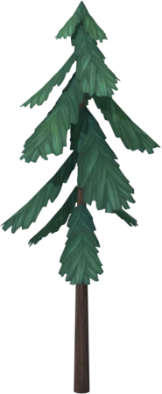
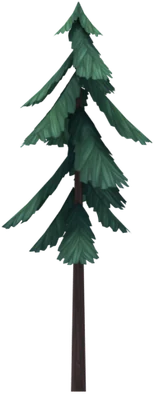
art: lit treeline, row depth grades (TB-260)
Tree sprites re-rendered in Cycles under the actors' sun (render_trees.py,
pack_trees.py); rows 1-3+ behind the nearest draw _d1.._d3 grades mixed
toward woodDeep, replacing the _far copies. TREELINE.depth, treeline grade().

Changed region(s): [[0.0, 0.0, 0.987, 1.0], [0.4935, 0.335, 0.5455, 0.3655]]

diff --git a/src/data/presentation.ts b/src/data/presentation.ts
@@ -30,7 +30,7 @@ export const DEPTH = { top: 176, far: 0.62, near: 1, squeeze: 0.3, hazeSky: 0.16
 /** Treeline along the top of the view (TB-207, TB-220): sprites from the Sketchfab Handpainted Tree Pack (rudolfs, CC-BY), rendered
  *  in tide-assets/trees (512 px renders, shipped at 44 px per model unit so a tree is never drawn past its native pixels at 1080p DPR 2).
  *  Rows of trees stacked from the view top down to `stop` (units above the plain's top edge, at least `minRows` rows): each row nearer
- *  than the last, so taller, brighter and wider spaced. The back rows use the darker `_far` sprites. Every tree is drawn at its real
+ *  than the last, so taller, brighter and wider spaced. Rows behind the nearest use the depth-graded sprites `_d1`.. (TB-260). Every tree is drawn at its real
  *  model height (`kinds`, in model units) times `unit`, always with one uniform scale so nothing squashes or warps. */
 export const TREELINE = {
   seed: 207, span: [-700, 1600] as const,
@@ -39,6 +39,9 @@ export const TREELINE = {
     young: 0.3, kinds: ['oak_green_1', 'oak_green_2', 'spruce_2', 'spruce_3'] as const, youngH: [24, 38] as const },
   /** Pre-scaled sprite levels stop below `mipMin` px high; the soft ground shadow is `shadowPx` wide and `shade` x the sprite width under a tree and a bush. */
   mipMin: 24, shadowPx: 64, shade: { tree: 0.45, bush: 0.85 },
+  /** Depth grades (TB-260): the sprites are lit in Cycles like the actors; a row 1, 2, 3+ behind the nearest draws `tree_<kind>_d1..d<depth>`
+   *  (pack_trees.py: colour mixed 0.22 / 0.36 / 0.48 toward `woodDeep`). A `far` skirt bush draws grade 1. */
+  depth: 3,
   /** Device-exact sprite cache: most entries kept before it is rebuilt. The first `fill.rows` rows (the canopy against the view top) hold only kinds at least `fill.min` x the tallest that fits. */
   exactCap: 700, fill: { rows: 3, min: 0.9 },
   /** World units per model unit, and the random size spread (x unit) of one tree. */

diff --git a/src/render/treeline.ts b/src/render/treeline.ts
@@ -82,10 +82,14 @@ function buildMips(im: HTMLImageElement): HTMLCanvasElement[] {
   return out;
 }
 
+/** Sprite suffix for a tree `back` rows behind the nearest: '' for the nearest, then `_d1`.. capped at `TREELINE.depth` (TB-260). */
+export const grade = (back: number): string => (back <= 0 ? '' : `_d${Math.min(back, T.depth)}`);
+
 function load(): void {
   if (started || typeof Image === 'undefined') return;
   started = true;
-  for (const k of [...T.kinds, BUSH]) for (const v of [k, `${k}_far`]) {
+  for (const k of [...T.kinds, BUSH]) for (let d = 0; d <= T.depth; d++) {
+    const v = k + grade(d);
     const im = new Image(); im.onload = (): void => { imgs.set(v, im); mips.set(v, buildMips(im)); }; im.src = `${import.meta.env.BASE_URL}decor/tree_${v}.webp`;
   }
 }
@@ -158,13 +162,13 @@ export class Treeline {
         if (r === 0 && t.key !== BUSH) h = Math.min(h * T.stretch, Math.max(h * 0.95, off - crown));
         // the open sky under the HUD (TB-232): a crown that would reach into it is drawn shorter, one uniform scale, at most down to `shrink`
         if (off - h < crown) h = Math.max(h * SKY.shrink, off - crown);
-        this.spots.push({ x: t.x, off, key: r < n - 1 ? `${t.key}_far` : t.key, h, flip: t.flip, shadow: T.shade.tree });
+        this.spots.push({ x: t.x, off, key: t.key + grade(n - 1 - r), h, flip: t.flip, shadow: T.shade.tree });
       }
     }
     const sb = T.first + (n - 1) * T.gap + T.skirt.lift;
     this.skirt.forEach((tr, i) => {
       const base = sb - T.skirt.offset * (T.skirt.rows - 1 - i);
-      for (const t of tr) this.edges.push({ x: t.x, off: base + t.dy, key: t.far ? `${t.key}_far` : t.key, h: t.h, flip: t.flip, shadow: T.shade.bush });
+      for (const t of tr) this.edges.push({ x: t.x, off: base + t.dy, key: t.key + grade(t.far ? 1 : 0), h: t.h, flip: t.flip, shadow: T.shade.bush });
     });
     this.spots.sort((a, b) => a.off - b.off); this.edges.sort((a, b) => a.off - b.off);
   }

diff --git a/src/render/treeline.test.ts b/src/render/treeline.test.ts
@@ -5,7 +5,7 @@ class FakeImage {
   set src(_v: string) { queueMicrotask(() => this.onload?.()); }
 }
 vi.stubGlobal('Image', FakeImage);
-const { Treeline, treeHeight, rowScale, rowKinds, rowRoom, fitSize } = await import('./treeline');
+const { Treeline, treeHeight, rowScale, rowKinds, rowRoom, fitSize, grade } = await import('./treeline');
 const { TREELINE } = await import('../data/presentation');
 
 function mockCtx() {
@@ -20,6 +20,12 @@ function mockCtx() {
 }
 
 describe('treeline', () => {
+  it('grades rows by distance behind the nearest, capped at the deepest grade (TB-260)', () => {
+    expect(grade(0)).toBe('');
+    expect(grade(1)).toBe('_d1');
+    expect(grade(TREELINE.depth + 4)).toBe(`_d${TREELINE.depth}`);
+  });
+
   it('does not throw on a zero-size / NaN view, so the frame loop survives', () => {
     const t = new Treeline(), { g } = mockCtx();
     expect(() => t.draw(g, NaN, NaN, NaN)).not.toThrow();

diff --git a/.claude/skills/mixamo-animate/scripts/trees/render_trees.py b/.claude/skills/mixamo-animate/scripts/trees/render_trees.py
@@ -1,0 +1,39 @@
+# TB-260: the treeline sprites lit like the actors. Renders each Handpainted Tree Pack kind (sketchfab/trees/scene.gltf, rudolfs,
+# CC-BY-4.0) alone, front orthographic (no tilt: TREELINE.heights x unit is the model height), in Cycles under lit_render's sun
+# (camera-space SUN, SUNE, AMB as the actors) with NOGROUND (treeline.ts draws each tree's own soft ground shadow).
+# Usage: blender -b --factory-startup --python render_trees.py -- <scene.gltf> <outdir> [kinds,comma,separated]
+# env: RES (512), SUNA (key sun angle rad, 0.14), SKYC (fill colour, 0.8,0.88,1), YAW (camera yaw deg around the tree, 0 = looking +Y), BUSHTILT (deg the camera looks down on the bush, 7), plus lit_render's.
+# Writes <outdir>/<kind>.png (RES x RES, transparent). pack_trees.py crops and scales them into public/decor.
+import bpy, sys, os, math
+from mathutils import Vector
+sys.path.insert(0, os.path.join(os.path.dirname(os.path.abspath(__file__)), '..'))
+os.environ.setdefault('LIT', '1'); os.environ.setdefault('NOGROUND', '1')
+import lit_render
+E = os.environ.get
+a = sys.argv[sys.argv.index('--') + 1:]
+src, out = a[0], a[1]; os.makedirs(out, exist_ok=True)
+KINDS = a[2].split(',') if len(a) > 2 else ['oak_green_1', 'oak_green_2', 'pine_1', 'pine_2', 'pine_3', 'spruce_2', 'spruce_3', 'bush']
+RES = int(E('RES', '512'))
+bpy.ops.wm.read_factory_settings(use_empty=True)
+bpy.ops.import_scene.gltf(filepath=src)
+sc = bpy.context.scene
+meshes = {o.name: o for o in sc.objects if o.type == 'MESH'}
+cam = bpy.data.objects.new('cam', bpy.data.cameras.new('cam')); sc.collection.objects.link(cam); sc.camera = cam; cam.data.type = 'ORTHO'
+sc.render.resolution_x = sc.render.resolution_y = RES; sc.render.resolution_percentage = 100
+sc.view_settings.view_transform = 'Standard'; sc.render.image_settings.file_format = 'PNG'; sc.render.image_settings.color_mode = 'RGBA'
+for k in KINDS:
+    obj = meshes.get(f'{k}_' + next((m.name for m in meshes[next(n for n in meshes if n.startswith(k + '_'))].data.materials), '') + '_0') or next(o for n, o in meshes.items() if n.startswith(k + '_'))
+    for o in meshes.values(): o.hide_render = o is not obj
+    bb = [obj.matrix_world @ Vector(c) for c in obj.bound_box]
+    lo = Vector([min(v[i] for v in bb) for i in range(3)]); hi = Vector([max(v[i] for v in bb) for i in range(3)]); c = (lo + hi) / 2; sz = hi - lo
+    tilt = math.radians(float(E('BUSHTILT', '7'))) if k == 'bush' else 0.0; yaw = math.radians(float(E('YAW', '0')))
+    d = Vector((math.sin(yaw) * math.cos(tilt), math.cos(yaw) * math.cos(tilt), -math.sin(tilt)))  # view direction
+    cam.location = c - d * 50; cam.rotation_euler = d.to_track_quat('-Z', 'Y').to_euler(); cam.data.clip_end = 200
+    cam.data.ortho_scale = max(sz.x, sz.y, sz.z) * 1.08
+    lit_render.setup(sc, cam)  # (re)aims the key sun in this camera's space
+    # a factory world is near-black (0.05), so AMB alone barely lifts a crown's self-shadow: give the fill a sky colour (SKYC)
+    bg = next(n for n in sc.world.node_tree.nodes if n.type == 'BACKGROUND'); bg.inputs[0].default_value = [float(x) for x in E('SKYC', '0.8,0.88,1').split(',')] + [1]
+    for o in sc.objects:  # SUNA: a wider sun softens the stacked leaf layers' shadow bands (lit_render's 0.14 rad striped the bush)
+        if o.type == 'LIGHT' and o.data.type == 'SUN' and o.data.use_shadow: o.data.angle = float(E('SUNA', '0.14'))
+    sc.render.filepath = os.path.join(out, k + '.png'); bpy.ops.render.render(write_still=True)
+    print('TREE', k, [round(x, 2) for x in sz], 'ortho', round(cam.data.ortho_scale, 2))

diff --git a/.claude/skills/mixamo-animate/scripts/trees/pack_trees.py b/.claude/skills/mixamo-animate/scripts/trees/pack_trees.py
@@ -1,0 +1,24 @@
+# TB-260: cut render_trees.py frames into the treeline sprites, one depth grade per row distance.
+# Usage: python pack_trees.py <renderdir> <public/decor> [mix,mix,...]
+# Each kind is cropped to its alpha (>8) plus 2 px and scaled to 44 px per model unit of height (the bush to 256 px), then written as
+# tree_<kind>.webp (the nearest row) and tree_<kind>_d<i>.webp for i = 1.. : the colour mixed `mix[i-1]` toward the palette's woodDeep
+# (#2f4838), the wood's shade, alpha untouched. Default mixes 0.22,0.36,0.48 (row 1, 2, 3+ behind the nearest; TREELINE.depth).
+import sys, os
+import numpy as np
+from PIL import Image
+src, out = sys.argv[1], sys.argv[2]
+MIX = [float(x) for x in (sys.argv[3] if len(sys.argv) > 3 else '0.22,0.36,0.48').split(',')]
+HEIGHTS = {'oak_green_1': 6.25, 'oak_green_2': 6.94, 'pine_1': 7.35, 'pine_2': 8.95, 'pine_3': 10.57, 'spruce_2': 5.31, 'spruce_3': 5.17}  # TREELINE.heights
+PXU, BUSH_H = 44, 256
+SHADE = np.array([0x2f, 0x48, 0x38], np.float32)  # palette woodDeep
+for k in [*HEIGHTS, 'bush']:
+    im = Image.open(os.path.join(src, k + '.png')).convert('RGBA')
+    x0, y0, x1, y1 = im.getchannel('A').point(lambda v: 255 if v > 8 else 0).getbbox()
+    im = im.crop((max(0, x0 - 2), max(0, y0 - 2), min(im.width, x1 + 2), min(im.height, y1 + 2)))
+    h = BUSH_H if k == 'bush' else round(HEIGHTS[k] * PXU); w = round(im.width * h / im.height)
+    a = np.asarray(im.resize((w, h), Image.LANCZOS)).astype(np.float32)
+    for i, m in enumerate([0.0, *MIX]):
+        b = a.copy(); b[..., :3] = b[..., :3] * (1 - m) + SHADE * m
+        name = f'tree_{k}.webp' if i == 0 else f'tree_{k}_d{i}.webp'
+        Image.fromarray(np.clip(b, 0, 255).astype(np.uint8), 'RGBA').save(os.path.join(out, name), 'WEBP', quality=88, method=6)
+    print('PACK', k, w, h)

diff --git a/docs/ART-STYLE.md b/docs/ART-STYLE.md
@@ -162,7 +162,7 @@ Numbers in `LOOT_VFX` and `LOOT_BANNER` (`src/data/presentation.ts`), colours pe
 Carved living wood, not a template: no cards, glows or gradients standing in for material.
 - Base: deep forest green (ink tokens above; the old blue-grey is gone). A gold vine tile (`src/ui/wood/gilt.svg`, 320 px, 16% opacity) runs behind the page and the panels. Between runs (camp mode) the page behind the panel is the painted dusk canopy `public/ui/canopy.webp` (TB-195o), cover-sized under an ink vignette.
 - Frame and buttons are rendered in Blender, not drawn in CSS: `art/ui/carve.py` (headless: `blender -b --factory-startup --python art/ui/carve.py -- <outdir>`). Planks carry relief grain (stretched clouds displacement), corners are sawn log ends with ring grain and a bark collar, with two carved leaves. Render 256 px per unit, Cycles, transparent film, orthographic top camera.
-- `frame.png` is retired (TB-207, director 3 Nov: full screen, no frame or corner rings); the field and panels have no border. The file stays in `src/ui/wood` unused. Beyond the 900x480 plain the view shows more meadow (a second ground seed), never a flat colour; the top edge is a treeline of rendered tree sprites (`public/decor/tree_*.webp`, `TREELINE` in `src/data/presentation.ts`): back rows use darker copies (`_far`), nearer rows are taller and wider spaced. TB-220: every tree is drawn at its real model height (`TREELINE.heights` x `unit`, so pines tower over oaks and spruces), never squashed; sprites are cut from the 512 px renders at 44 px per model unit (drawn at 9.5 units per model unit, so never upscaled at 1080p DPR 2), and there are no flat haze rectangles or hill bands behind them. Rows hang from the view top (`first`, `gap`): a row holds only the kinds that fit its room (`slack`), so the tallest pines stand in the nearer rows, and one scale per row means no crown leaves the top edge and same-species trees match. The forest is drawn behind the barricade; the forest is unbroken behind the wall (round 9: `cap.clear` removed) and the wall starts `cap.up` units above the bush skirt (round 8: its own stakes cap it, nothing draws over its top). Round 3: sprites are pre-scaled into a mip chain (halved, never below `mipMin` px) and drawn with `imageSmoothingQuality = high`, so the 0.3-0.5x minification no longer aliases and near and `_far` copies share one texel density; the skirt mixes in young trees (`skirt.young`, `youngH`) and several bush kinds; every trunk and bush casts a palette-token ground shadow (`shadowPx`, `shade`); orcs are depth-sorted against the skirt by feet y. The header HUD tightens (style.css, TB-220) in narrow windows, or when the Replant pull-back button joins the row, so Settings never leaves the screen. Round 4: rows hang lower (`first` 118), so even the nearest-to-top row holds the tall pines and more of every crown shows below the HUD; the run header's dark top scrim is gone (the plaques and pills carry their own backing) and so is the full-width ground band at the skirt, leaving only each bush's own shadow; no kind repeats within two neighbours in a row; the skirt has more size spread, more young trees and shorter wall bushes. Round 5: the fence's top panel is clipped at the wall's top (it was taller than its step and poked stakes up through the trees); the skirt's row lift is 12 so its lower edge is less even. Round 6: every tree is pre-scaled to exactly its device height (one canvas per sprite, flip and whole pixel height, `exactCap` entries) and blitted 1:1 on a whole device pixel, so edges are as clean at 1x as at 2x (the mip chain stays as the source of that last 1x-2x step); the top `fill.rows` rows hold only the tall pines (`fill.min`) so crowns reach the view top; the meadow above the plain has no flowers and the plain's top flower drifts sit just below the forest (`flowers.topY`), so no petals show through the foliage; skirt trees keep off the wall's column like the rows; orcs walking inside the forest are drawn whole in front of the rows (the bush skirt still covers their feet). Round 8 (critic flaws): the forest hangs from `y0 + hud`, where the band `FIELD_VIEW.hudFrac` x canvas height (phones: `phoneHud` px) is kept clear, so no crown reaches the Wave, Slain, Heartwood, Replant or Settings plaques or the wall bar (they end at 96 css px at 1080p, 77 at 720p); the top `fill.rows` (3) hold only the tallest pines (`fill.min` 0.85) and no bush, so the canopy line is even; the bush skirt is drawn right after the rows and before every orc, so no orc's feet or legs are hidden; the skirt mixes half young trees and spaces them looser (`skirt.gap` 0.9); the fence's top panel is drawn whole (unclipped) with its pointed stakes as the wall's cap, rising `cap.up` 30 units above the skirt base, with no bush on top; fairy motes draw on the meadow only, never over the forest or the HUD band. Round 9 (critic flaws): orcs in the forest are depth-sorted against the trees by feet y (`treesUpTo` per orc), so nearer crowns and trunks cover them and none hovers on a crown top; no tree is skipped near the wall; the HUD band is measured from the lowest HUD control plus `hudGap` px (`Field.hudBand`), and the canopy row is sized (0.95 to `stretch` x natural, same aspect) so its crown tops land `crown` units under the band (gap under the HUD about 10 css px at 1080p and 9 at 720p, recorded in audit.json); the wild meadow above the plain has no tufts or pebbles; fewer young trees in the skirt (`skirt.young` 0.3); `rowScale` is 1 for every row (test), so no tree is shrunk. `tools/treeline-capture.mjs` launches one Chrome per size and only keeps a shot whose HUD wave equals the target, with the CLEARED stamp and fallen overlay hidden and the wall at full HP (retry, then fail). Known limits: the sprites are 512 px renders, so DPR 2 at 1080p is softer than DPR 1. TB-232 (sky and depth, director 5 Nov): an open strip of painted sky (gradient plus seeded drifting cloud puffs, `SKY`) sits under the HUD band, kept clear by shortening the tallest crowns; the sky deepens into the wood's shade below the crowns. The meadow fakes depth (`DEPTH`): back rows are drawn squeezed, actors and props shrink to `far` on the back row, and an aerial haze lies over the wood and the back rows on top of every actor there. Orcs never show among the trees: an orc is not drawn until its feet clear the bush skirt, then fades in over `SKY.emerge` units of meadow (this replaces round 9's orcs drawn between the tree rows).
+- `frame.png` is retired (TB-207, director 3 Nov: full screen, no frame or corner rings); the field and panels have no border. The file stays in `src/ui/wood` unused. Beyond the 900x480 plain the view shows more meadow (a second ground seed), never a flat colour; the top edge is a treeline of rendered tree sprites (`public/decor/tree_*.webp`, `TREELINE` in `src/data/presentation.ts`): rows behind the nearest use depth-graded copies (`_d1`..`_d3`, TB-260), nearer rows are taller and wider spaced. TB-220: every tree is drawn at its real model height (`TREELINE.heights` x `unit`, so pines tower over oaks and spruces), never squashed; sprites are cut from the 512 px renders at 44 px per model unit (drawn at 9.5 units per model unit, so never upscaled at 1080p DPR 2), and there are no flat haze rectangles or hill bands behind them. Rows hang from the view top (`first`, `gap`): a row holds only the kinds that fit its room (`slack`), so the tallest pines stand in the nearer rows, and one scale per row means no crown leaves the top edge and same-species trees match. The forest is drawn behind the barricade; the forest is unbroken behind the wall (round 9: `cap.clear` removed) and the wall starts `cap.up` units above the bush skirt (round 8: its own stakes cap it, nothing draws over its top). Round 3: sprites are pre-scaled into a mip chain (halved, never below `mipMin` px) and drawn with `imageSmoothingQuality = high`, so the 0.3-0.5x minification no longer aliases and near and graded copies share one texel density; the skirt mixes in young trees (`skirt.young`, `youngH`) and several bush kinds; every trunk and bush casts a palette-token ground shadow (`shadowPx`, `shade`); orcs are depth-sorted against the skirt by feet y. The header HUD tightens (style.css, TB-220) in narrow windows, or when the Replant pull-back button joins the row, so Settings never leaves the screen. Round 4: rows hang lower (`first` 118), so even the nearest-to-top row holds the tall pines and more of every crown shows below the HUD; the run header's dark top scrim is gone (the plaques and pills carry their own backing) and so is the full-width ground band at the skirt, leaving only each bush's own shadow; no kind repeats within two neighbours in a row; the skirt has more size spread, more young trees and shorter wall bushes. Round 5: the fence's top panel is clipped at the wall's top (it was taller than its step and poked stakes up through the trees); the skirt's row lift is 12 so its lower edge is less even. Round 6: every tree is pre-scaled to exactly its device height (one canvas per sprite, flip and whole pixel height, `exactCap` entries) and blitted 1:1 on a whole device pixel, so edges are as clean at 1x as at 2x (the mip chain stays as the source of that last 1x-2x step); the top `fill.rows` rows hold only the tall pines (`fill.min`) so crowns reach the view top; the meadow above the plain has no flowers and the plain's top flower drifts sit just below the forest (`flowers.topY`), so no petals show through the foliage; skirt trees keep off the wall's column like the rows; orcs walking inside the forest are drawn whole in front of the rows (the bush skirt still covers their feet). Round 8 (critic flaws): the forest hangs from `y0 + hud`, where the band `FIELD_VIEW.hudFrac` x canvas height (phones: `phoneHud` px) is kept clear, so no crown reaches the Wave, Slain, Heartwood, Replant or Settings plaques or the wall bar (they end at 96 css px at 1080p, 77 at 720p); the top `fill.rows` (3) hold only the tallest pines (`fill.min` 0.85) and no bush, so the canopy line is even; the bush skirt is drawn right after the rows and before every orc, so no orc's feet or legs are hidden; the skirt mixes half young trees and spaces them looser (`skirt.gap` 0.9); the fence's top panel is drawn whole (unclipped) with its pointed stakes as the wall's cap, rising `cap.up` 30 units above the skirt base, with no bush on top; fairy motes draw on the meadow only, never over the forest or the HUD band. Round 9 (critic flaws): orcs in the forest are depth-sorted against the trees by feet y (`treesUpTo` per orc), so nearer crowns and trunks cover them and none hovers on a crown top; no tree is skipped near the wall; the HUD band is measured from the lowest HUD control plus `hudGap` px (`Field.hudBand`), and the canopy row is sized (0.95 to `stretch` x natural, same aspect) so its crown tops land `crown` units under the band (gap under the HUD about 10 css px at 1080p and 9 at 720p, recorded in audit.json); the wild meadow above the plain has no tufts or pebbles; fewer young trees in the skirt (`skirt.young` 0.3); `rowScale` is 1 for every row (test), so no tree is shrunk. `tools/treeline-capture.mjs` launches one Chrome per size and only keeps a shot whose HUD wave equals the target, with the CLEARED stamp and fallen overlay hidden and the wall at full HP (retry, then fail). Known limits: the sprites are 512 px renders, so DPR 2 at 1080p is softer than DPR 1. TB-232 (sky and depth, director 5 Nov): an open strip of painted sky (gradient plus seeded drifting cloud puffs, `SKY`) sits under the HUD band, kept clear by shortening the tallest crowns; the sky deepens into the wood's shade below the crowns. The meadow fakes depth (`DEPTH`): back rows are drawn squeezed, actors and props shrink to `far` on the back row, and an aerial haze lies over the wood and the back rows on top of every actor there. Orcs never show among the trees: an orc is not drawn until its feet clear the bush skirt, then fades in over `SKY.emerge` units of meadow (this replaces round 9's orcs drawn between the tree rows). TB-260 (director 13 Nov, "Ship it"): the tree sprites are Cycles renders under the actors' sun (`render_trees.py`, lit_render's camera-space sun, a pale sky fill, the bush seen 13° from above), so crowns have a lit top and a shaded side like the actors; a row 1, 2 or 3+ behind the nearest draws `tree_<kind>_d1..d3` (`pack_trees.py`: colour mixed 0.22 / 0.36 / 0.48 toward `woodDeep`), a `far` skirt bush grade 1 (`TREELINE.depth`). Known limit: the bush model's stacked leaf tiers leave dark bands under each tier.
 - `button.png` (385×94, alpha-cropped from the render at half size) skins `.deploy` and `.ghost`: `border-image 20 30 fill / 8px 12px`. Build the plaque as a coarse quad grid: an ngon cap pinches at its centre under subdivision, and a fine grid clamps the bevel flat. `.buy` stays amber: the one gold action on a page.
 - Roots (`root.svg`) replace rules, carved tokens mark the tabs (TB-195d).
 

diff --git a/.claude/skills/mixamo-animate/SKILL.md b/.claude/skills/mixamo-animate/SKILL.md
@@ -76,6 +76,9 @@ Phase 2 (2026-11-13), the actors outside `build_sprites.ps1`, every one re-rende
 ## Painted ground (TB-259, approved 13 Nov)
 `scripts/ground/bake_ground.py`: a top-down ortho Cycles render of the meadow (1 field unit = 5 cm, Blender Y = -field y) under the actors' sun, `palette.ts` plain* colours. Approved: `TUFTS=0 SWELL=0.5 SWELLS=0.12 PXU=2.4 SAMPLES=48 blender -b --factory-startup --python bake_ground.py -- full.png` (region X0..X1 -140..1040, Y0..Y1 100..490 = `GROUND.bake`; 2832x936, about 20 s on the GPU). Then `python gnorm.py full.png fulln.png` (per-channel gain so the mean is `plain` #7c9676) and `python to_webp.py fulln.png public/decor/ground.webp 72` (alpha feather in px). Baked grass blades fail (pixel noise; tufts read as dark spiders): keep the bake to swells and colour drifts, the vector tufts sit on top. SWELL 0.9 read as muddy hollows.
 
+## Lit treeline (TB-260, approved 13 Nov)
+`scripts/trees/render_trees.py`: each Handpainted Tree Pack kind alone, front ortho, Cycles under `lit_render`'s sun with NOGROUND. Approved: `AMB=1.0 BUSHTILT=13 blender -b --factory-startup --python render_trees.py -- <tide-assets>/sketchfab/trees/scene.gltf <outdir>` (SUNA 0.14 = the actors' sun; 0.5 and 1.0 barely soften the bush's tier bands). The world colour must be a sky (`SKYC` 0.8,0.88,1): a factory world is 0.05, so AMB alone leaves crowns black. BUSHTILT 13 matches the shipped bush aspect. Then `python pack_trees.py <outdir> public/decor` (crop, 44 px per model unit, bush 256 px; writes `tree_<k>.webp` + `_d1.._d3` mixed 0.22/0.36/0.48 toward `woodDeep`).
+
 ## Two-hand weapons on Tripo's own rig (elf spearman, 2026-10-31)
 - **Mixamo's "unable to map your existing skeleton" is misleading**: an OBJ got it too. The cause is the posed arms (bent, touching the body). Skip the Mixamo auto-rig: export Tripo's Mixamo-preset rigged FBX (52 `mixamorig:` bones) and import with `use_anim=False` (with anim it hangs).
 - **No `DIRECT` on a Tripo rig** (body leans back ~45°). Use the default world retarget with `INPLACE=1` and `RMATCH` on both arms (raw retarget aimed the spear down/backward).

diff --git a/docs/BACKLOG.md b/docs/BACKLOG.md
@@ -307,7 +307,7 @@ Ids are stable (`TB-###`). Status: `todo` · `doing` · `review` · `done <hash>
 | TB-257 | Visuals, wolf gait (director 12 Nov, too fast): stride already plants (2.16 measured vs 2.14); speed 210 cycled the gallop 8.2/s, so SOURCES.wolf.speed 210 -> 105 (4.1 strides/s) | art | claude | done 7da05cb |
 | TB-258 | Phone sprites stale (found 13 Nov): the cheap tier loads public/sprites/half/, but only camp was current; archer, elf, orcs, orcs2, van were older packs and the five boss sheets had no half copy. pack_sprites.py now writes every half sheet on each pack (director: ship with TB-253 phase 2) | art | claude | done (4dc9c0f) |
 | TB-259 | Visual overhaul 3, painted ground (director 12 Nov): the meadow as a painted ground in the lit style instead of the flat fill | art | claude | done (c13f71c) |
-| TB-260 | Visual overhaul 4, treeline depth (director 12 Nov): depth and light across the treeline rows to match the lit actors | art | claude | in progress |
+| TB-260 | Visual overhaul 4, treeline depth (director 12 Nov): depth and light across the treeline rows to match the lit actors | art | claude | done (PR pending) |
 | TB-261 | Visual overhaul 5a, lighting and time of day (director 13 Nov): a warm grade or day-to-dusk over the waves, built on the existing 10-minute cycle; no tint over the plain (cut in TB-174) | art | claude | open (after TB-260) |
 | TB-262 | Visual overhaul 5b, hit and death VFX in the lit style (director 13 Nov): impacts and deaths that read with the baked light and shadows | art | claude | open (after TB-261) |
 | TB-263 | Visual overhaul 5c, UI and HUD restyle to match the painted look (director 13 Nov) | ui | claude | open (after TB-262) |

diff --git a/docs/log/2026-11-13.md b/docs/log/2026-11-13.md
@@ -18,3 +18,7 @@
 ## TB-259 painted ground
 - The meadow is a Blender bake under the actors' sun (`public/decor/ground.webp`, 23 KB), laid between the vector drifts and the tufts, rocks and flowers. Director picked the 0.5 m swells over 0.9 m ("Ship C"). Baked grass blades failed twice (pixel noise, dark spiky tufts): at this scale the bake carries only light and colour, the vector detail stays.
 - Merged: #319 c13f71c (TB-259). Next: TB-260 treeline depth.
+
+## TB-260 treeline depth
+- Trees re-rendered in Cycles under the actors' sun (`scripts/trees/render_trees.py`, `pack_trees.py`); rows 1-3+ behind the nearest draw darker grades `_d1.._d3` (toward `woodDeep`), replacing `_far`. Director: "Ship it".
+- Learned: a factory Blender world is 0.05, so AMB alone left crowns black; a sky world colour is the fill. A wider sun angle does not fix the bush's tier bands (they are the model's geometry).
